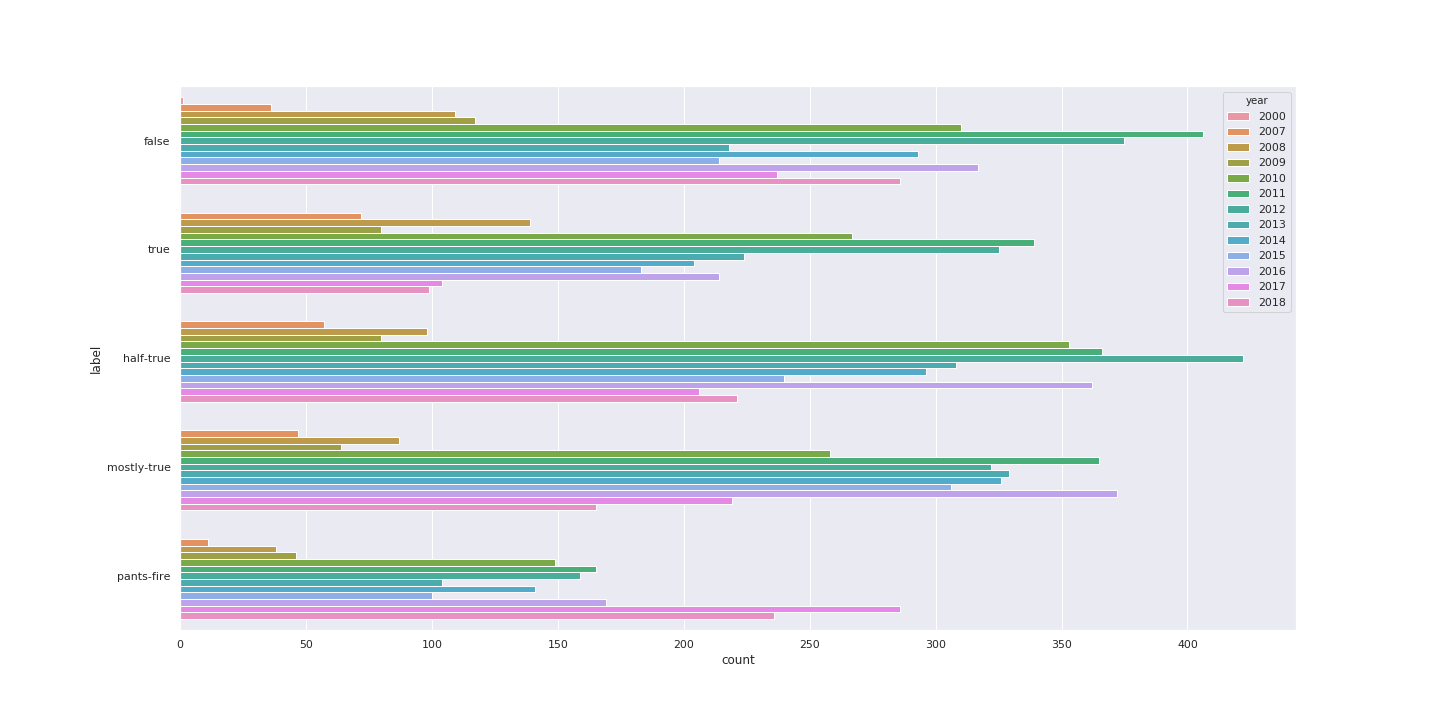
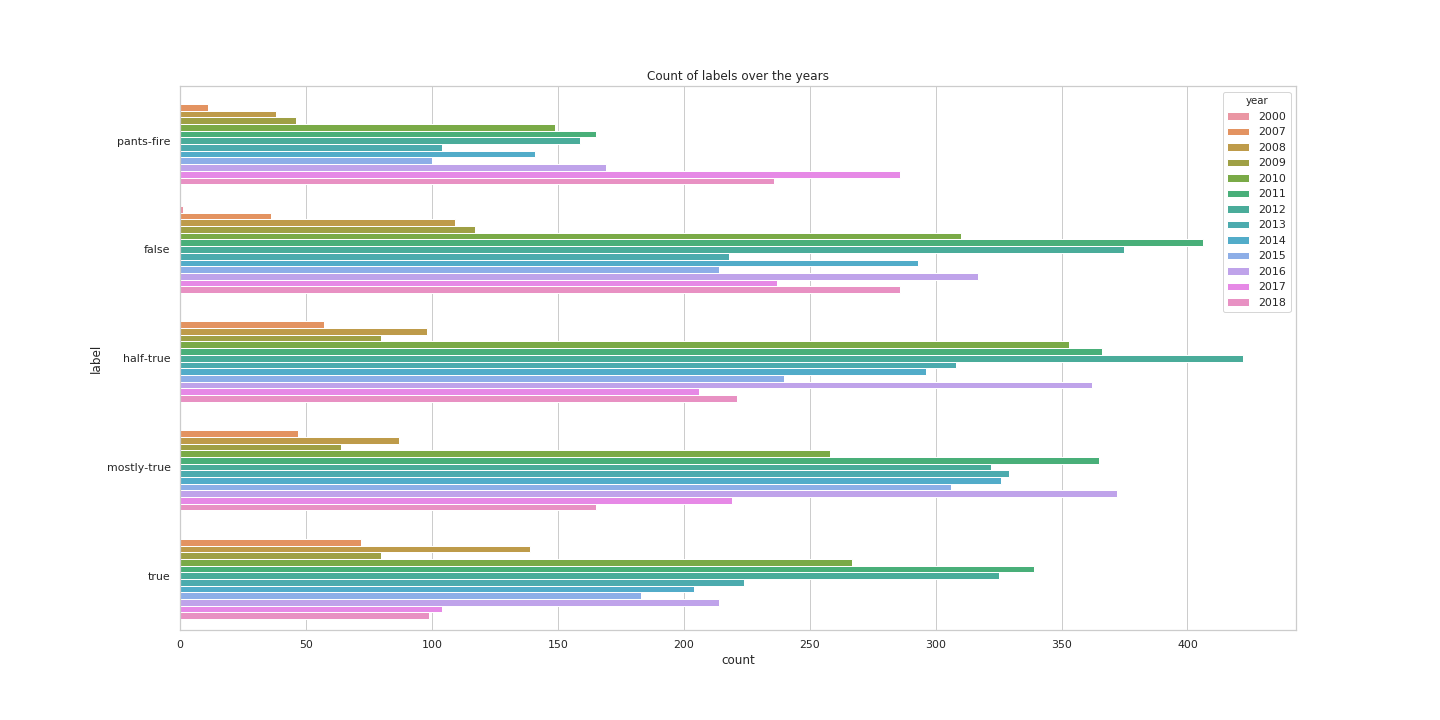
adapts images and adds titles to them

diff --git a/notebooks/bias_estimation.py b/notebooks/bias_estimation.py
@@ -50,7 +50,7 @@ from utils.statement_handling import extract_information, safe_json_read
 from importlib import reload
 import matplotlib.pyplot as plt
 import seaborn as sns
-sns.set()
+sns.set(style="whitegrid", palette="pastel")
 
 %matplotlib inline
 import utils.statement_handling as SH
@@ -99,16 +99,22 @@ statements.shape
 # <codecell>
 
 truhometer_labels = ['pants-fire', 'false', 'mostly-false', 'half-true', 'mostly-true', 'true']
+truhometer_labels = ['pants-fire', 'false', 'half-true', 'mostly-true', 'true']
 only_truthometer_label_idx = statements['label'].isin(truhometer_labels)
 
 # <codecell>
 
 sns.barplot(data=group_and_count(statements.loc[only_truthometer_label_idx, :], 'label'), x='count', y='label', order=truhometer_labels)
+plt.title("Count of label-types")
 plt.savefig('../docs/images/label_counts_overall.png')
 
 # <codecell>
 
 statements.loc[only_truthometer_label_idx,['statement_date']].describe()
+
+# <codecell>
+
+statements.loc[only_truthometer_label_idx,['statement_date']].shape
 
 # <codecell>
 
@@ -123,7 +129,8 @@ def add_year(df, year):
 
 d = pd.concat([add_year(group_and_count(statements.loc[(statements['statement_date'].dt.year == year) & only_truthometer_label_idx,: ], 'label'), year) for year in b])
 f = plt.figure(figsize=(20, 10))
-sns.barplot(data=d, x='count', y='label', hue='year')
+sns.barplot(data=d, x='count', y='label', hue='year', order=truhometer_labels)
+plt.title("Count of labels over the years")
 plt.savefig('../docs/images/labels_over_years.png')
 
 # <codecell>

diff --git a/docs/index.md b/docs/index.md
@@ -12,7 +12,7 @@ it really true that we cannot get away with a lie and that the truth always
 comes out? In this report we want to answer this question by analysing public statements
 of voted politicians in the USA.
 
-For this we collected **15471** statements from
+For this we collected **12642** statements from
 [politifact](https://www.politifact.com/). These were statements ranging from
 2011 to 2018, all were ruled on a scale from *pants-on-fire* to *true*. The
 statements vary from state-politics to health over security concerns and were
@@ -38,13 +38,16 @@ and later rechecked by three editors, the assigned label comes on a [scale of si
 - **FALSE**: The statement is not accurate.
 - **PANTS ON FIRE**: The statement is not accurate and makes a ridiculous claim.
 
+We scraped the API of Politifact, [example API call](http://www.politifact.com/api/v/2/statement/99/?format=json) in order to collect as many data points as possible.
+
 ![labels_counts_overall](/images/label_counts_overall.png)
 
-As can be seen 
+As can be seen the label `mostly false` does not occur in our dataset. The
+labels seem to follow a normal distribution with a centre around `half-true`.
 
 ![labels_over_years](/images/labels_over_years.png)
 
-
+The distribution of labels over the years is reflects the general amount of data for these years. **TODO check this with a better plot**
 
 ## When were these statements made?
 
